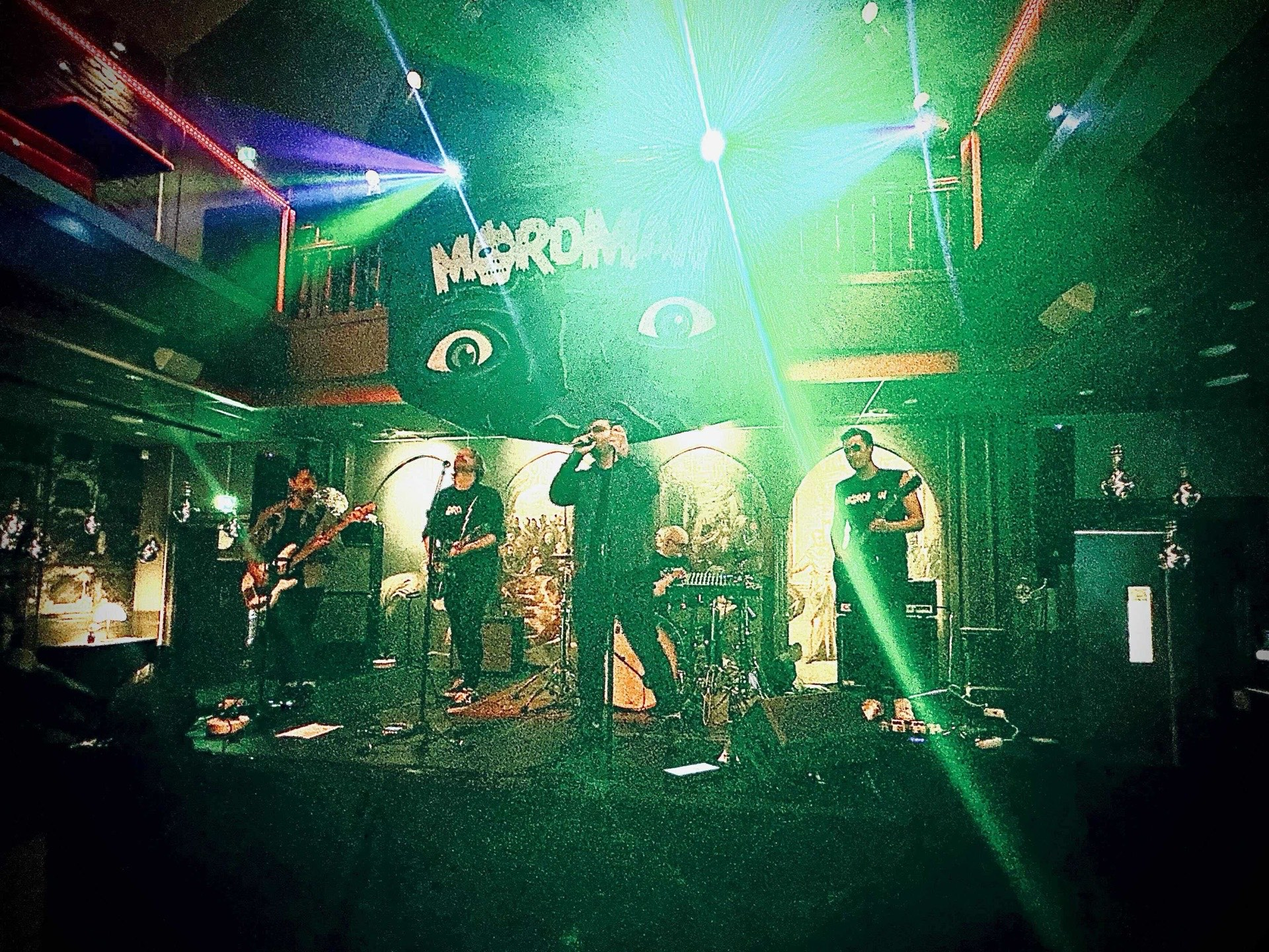
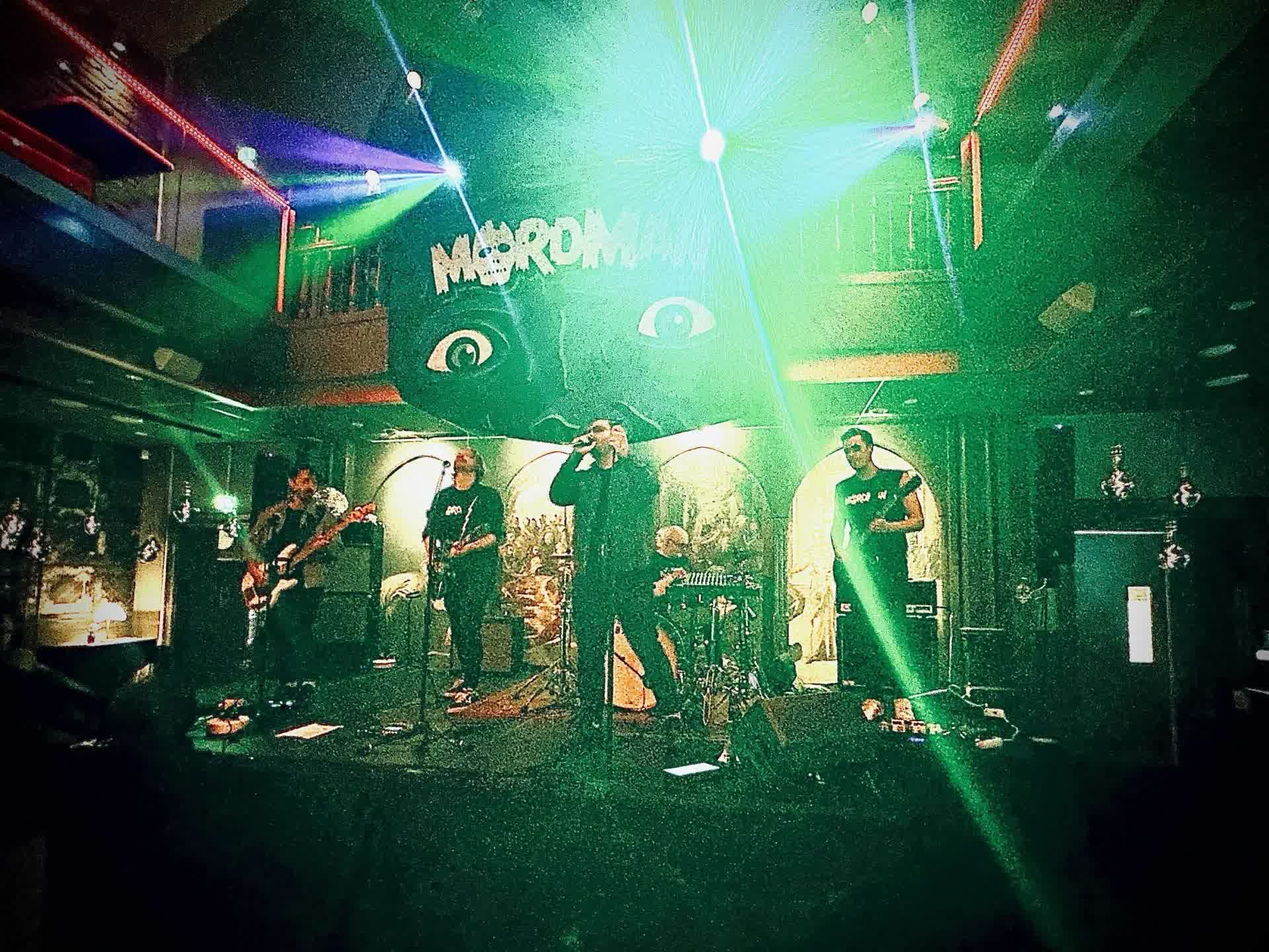
perf: hero LCP fix, real OG image, gig thumbnail sizes
- Hero: render hero.jpg via next/image (priority, fill, sizes=100vw) and
  mount the 6 MB video client-side only on >=768px without reduced motion.
- Remove opacity:0 start states on hero text and media (transform-only now).
- Recompress hero.jpg 976 KB -> 234 KB; enable AVIF/WebP in next.config.
- Add 1200x630 og.jpg (181 KB) for openGraph/twitter images.
- Gig grid: sizes attribute matching the 1/2/3-column layout.

diff --git a/components/HeroSection.js b/components/HeroSection.js
@@ -1,4 +1,6 @@
 'use client';
+import { useEffect, useState } from 'react';
+import Image from 'next/image';
 import { motion } from 'framer-motion';
 import { ArrowUpRight } from 'lucide-react';
 
@@ -6,6 +8,13 @@ const NEON_GREEN = '#7DFF4D';
 const PURPLE_MAIN = '#6B2AA5';
 
 export default function HeroSection() {
+  // Video only on desktop without reduced motion; mobile gets the poster (LCP).
+  const [showVideo, setShowVideo] = useState(false);
+  useEffect(() => {
+    const mq = window.matchMedia('(min-width: 768px) and (prefers-reduced-motion: no-preference)');
+    setShowVideo(mq.matches);
+  }, []);
+
   const scrollTo = (id) => {
     const el = document.getElementById(id);
     if (el) el.scrollIntoView({ behavior: 'smooth', block: 'start' });
@@ -14,31 +23,31 @@ export default function HeroSection() {
   return (
     <section id="hero" className="relative min-h-[calc(100vh-4rem)] pt-24 overflow-hidden">
       <motion.div
-        initial={{ scale: 1.05, opacity: 0 }}
-        animate={{ scale: 1, opacity: 1 }}
+        initial={{ scale: 1.05 }}
+        animate={{ scale: 1 }}
         transition={{ duration: 1.2, ease: 'easeOut' }}
-        className="absolute inset-0 z-0 overflow-hidden"
+        className="absolute inset-0 z-0 overflow-hidden bg-black"
       >
-        <video
-          className="
-            h-full w-full
-            object-cover
-            md:scale-100
-            scale-[1.35]
-            translate-x-0
-            md:translate-x-0
-            origin-center
-            transition-transform
-            bg-black
-          "
-          autoPlay
-          muted
-          loop
-          playsInline
-          poster="/content/hero.jpg"
-        >
-          <source src="/content/hero.mp4" type="video/mp4" />
-        </video>
+        <Image
+          src="/content/hero.jpg"
+          alt=""
+          fill
+          priority
+          sizes="100vw"
+          className="object-cover scale-[1.35] md:scale-100 origin-center"
+        />
+        {showVideo && (
+          <video
+            className="absolute inset-0 h-full w-full object-cover origin-center"
+            autoPlay
+            muted
+            loop
+            playsInline
+            preload="metadata"
+          >
+            <source src="/content/hero.mp4" type="video/mp4" />
+          </video>
+        )}
         <div
           className="absolute inset-0 pointer-events-none"
           style={{
@@ -58,8 +67,8 @@ export default function HeroSection() {
       />
 
       <motion.div
-        initial={{ opacity: 0, y: 26 }}
-        animate={{ opacity: 1, y: 0 }}
+        initial={{ y: 26 }}
+        animate={{ y: 0 }}
         transition={{ duration: 0.7, ease: 'easeOut', delay: 0.15 }}
         className="relative z-10 mx-auto max-w-6xl px-4 sm:px-6"
       >

diff --git a/app/layout.js b/app/layout.js
@@ -34,7 +34,7 @@ export const metadata = {
     siteName: "Mordman",
     images: [
       {
-        url: "/content/hero.jpg",
+        url: "/content/og.jpg",
         width: 1200,
         height: 630,
         alt: "Mordman coverband från Gävle live på scen",
@@ -50,7 +50,7 @@ export const metadata = {
       "Coverband från Gävle med fullt röj! Perfekt för firmafest, 40-årsfest, bröllop och krogkvällar.",
     images: [
       {
-        url: "/content/hero.jpg",
+        url: "/content/og.jpg",
         width: 1200,
         height: 630,
         alt: "Mordman coverband från Gävle live på scen",

diff --git a/app/spelningar/page.js b/app/spelningar/page.js
@@ -41,6 +41,7 @@ export default function GigsPage() {
                   src={gig.poster || "/content/gigs/example-poster.jpg"}
                   alt={`Affisch för Mordman-spelningen ${gig.title} på ${gig.venue} i ${gig.city}`}
                   fill
+                  sizes="(min-width: 1024px) 33vw, (min-width: 640px) 50vw, 100vw"
                   className="object-cover group-hover:brightness-110 transition-all"
                 />
               </div>
